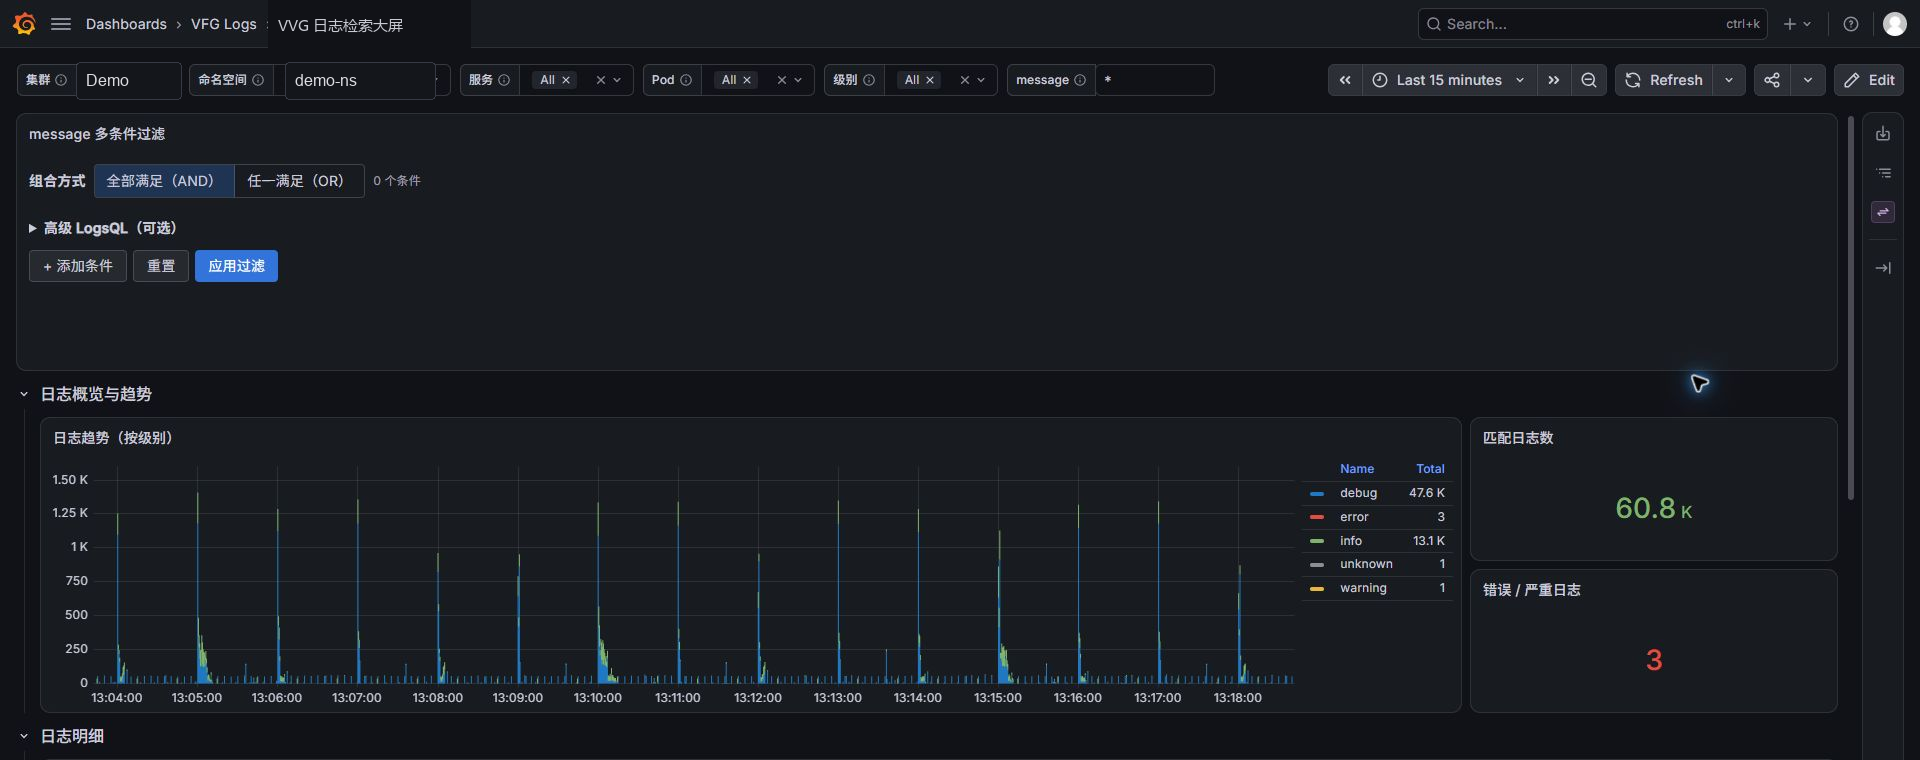
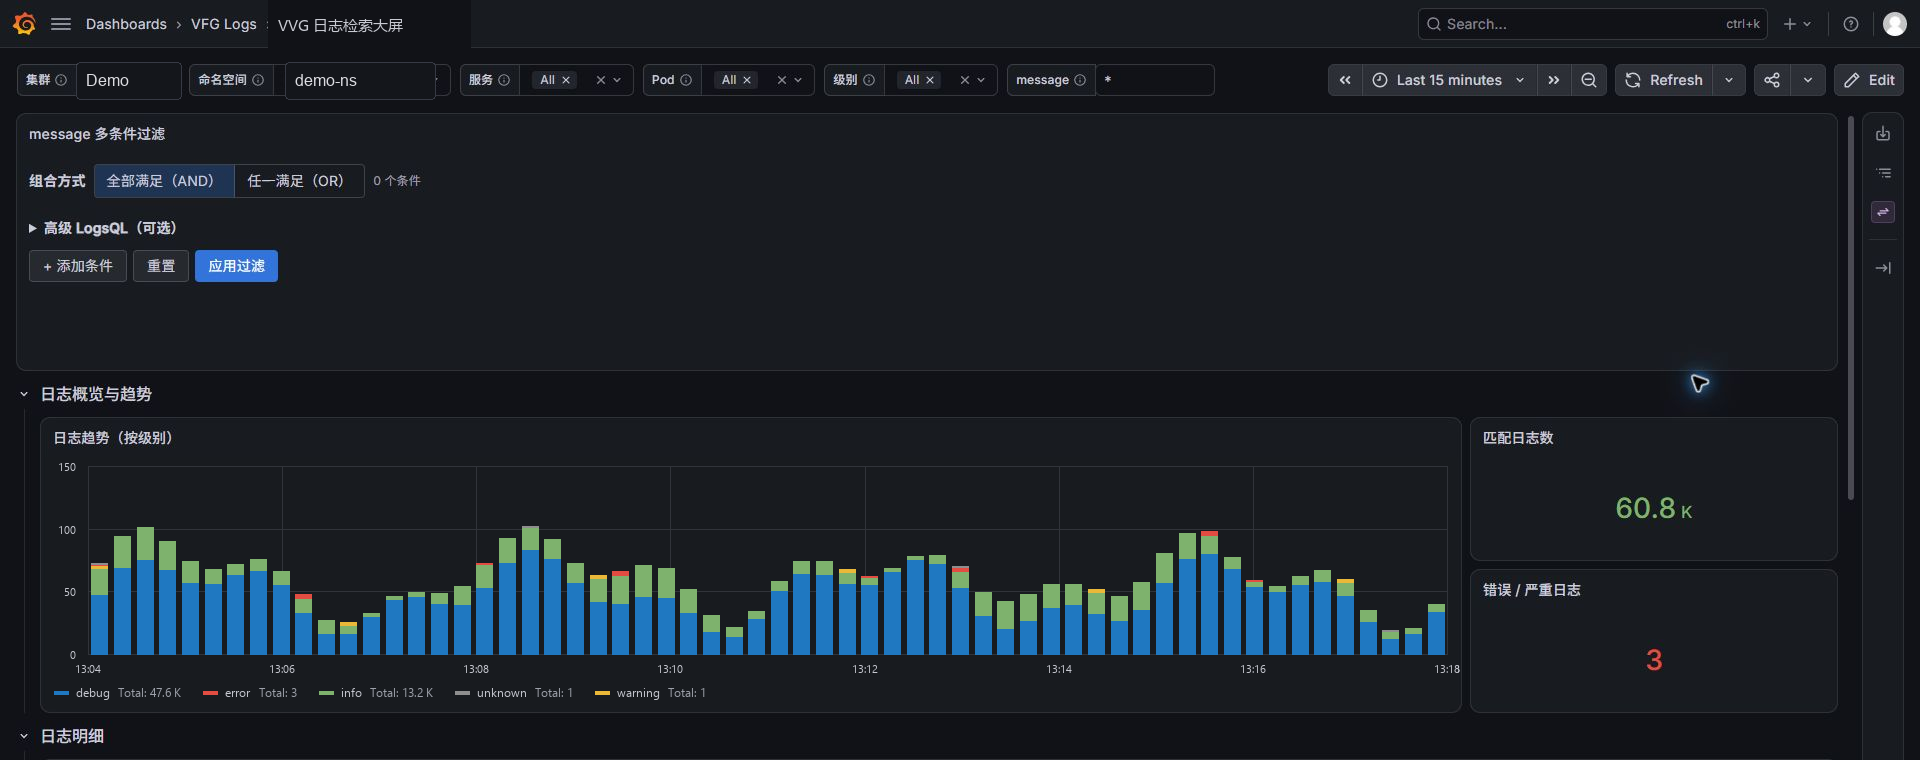
fix: match log trend to Explore volume

Changed region(s): [[0.0312, 0.6053, 0.75, 0.9382], [0.0312, 0.6053, 0.0625, 0.6355]]

diff --git a/docs/ai-agent-operations-guide.md b/docs/ai-agent-operations-guide.md
@@ -180,7 +180,8 @@ docker compose up -d --no-deps --force-recreate grafana
 7. 已知命中词在日志明细中显示黄色高亮。
 8. 5 条条件保持行式布局并在面板内滚动；20 条边界由自动测试和 UI共同约束。
 9. 浏览器控制台无插件预加载或运行错误。
-10. 最终恢复最近 15 分钟、零条件、自动刷新关闭。
+10. 3 小时范围的日志趋势使用 `hits` / `logsVolume`、约 100 个连续时间桶，柱体清晰可见，底部图例总数与统计面板一致。
+11. 最终恢复最近 15 分钟、零条件、自动刷新关闭。
 
 ## 9. 服务端验收
 
@@ -198,6 +199,8 @@ docker compose up -d --no-deps --force-recreate grafana
 - HTTP 200 的插件 `module.js` 仍可能因 React/Grafana 版本不兼容而执行失败；必须看 Chrome 控制台。
 - Grafana API 返回的 Dashboard `version` 是数据库修订计数，不等同于源 JSON 的 `version`。
 - Business Text 的“应用过滤”在标准 `now-N` 到 `now` 滑动窗口中，先原地推进 `context.grafana.timeRange`，再让 `message_filter_expr` 在原表达式和等价括号表达式之间切换，以保证单次变量刷新。不要在这条路径追加 `context.grafana.refresh()`，否则四个日志面板会产生两轮查询。带取整的相对时间使用官方刷新兜底；绝对时间范围保持不变。Grafana 或 Business Text 升级后必须重新做请求数量、时间戳和括号 LogsQL 验收。
+- 趋势图图例有正确总数但绘图区近似空白时，先检查请求模型和时间桶，不要误判为无日志。`statsRange` 配合宽面板可能按数秒返回数百个仅含非零值的稀疏点，柱宽低于一个像素；Dashboard 应复用 Explore 的 `hits` / `logsVolume`、`fields: ["level"]` 和 `maxDataPoints: 100`，得到约 100 个包含零值的连续桶。
+- 主动停止 Grafana 时可能记录一次 `job cleanup controller failed` / `context canceled`。先把该行时间与容器新的 `StartedAt` 比较；若它发生在启动前，且启动后严重错误为零、健康和 datasource 均正常，应归类为关停噪声，不要据此回滚。
 - 远端缺少 Python 不代表 JSON 无法验证；本地解析后比较 SHA 即可。
 - 浏览器中的“转圈”不等于 VictoriaLogs 并发不足；先看请求状态和后端耗时。
 

diff --git a/docs/grafana-victorialogs-query-performance-runbook.md b/docs/grafana-victorialogs-query-performance-runbook.md
@@ -18,6 +18,8 @@ Browser
         -> /select/logsql/hits   日志量直方图
 ```
 
+Dashboard 的日志趋势也应复用这条 `/hits` 路径。VictoriaLogs datasource 查询模型固定为 `queryType: hits`、`supportingQueryType: logsVolume`、`fields: ["level"]`，面板固定 `maxDataPoints: 100`，由 `$__interval` 随时间范围生成约 100 个连续时间桶。
+
 默认时间范围越大、查询越宽泛，两个后端请求扫描的数据越多，浏览器还要渲染更多行和直方图。因此仓库默认值为：
 
 - 新 Explore 页面：最近 15 分钟。
@@ -138,6 +140,16 @@ docker logs --since 2h victorialogs 2>&1 | grep -Ei 'slow query|timeout|panic|er
 3. 默认时间范围、返回行数和 LogsQL 已收窄。
 
 每次只提高一个小档位并复测 P95/P99。并发计数从未触顶时，提高上限只会增加潜在资源争用。
+
+### 3.5 图例有总数但趋势图近似空白
+
+先在浏览器 Query inspector 或网络请求中比较趋势面板与 Explore `Logs volume`：
+
+- 异常形式通常是 `queryType: statsRange`、`step` 只有数秒，并且响应只包含非零的稀疏时间点；总数计算仍正确，但宽时间窗中的单柱可能小于一个屏幕像素。
+- 正常形式是 `queryType: hits`、`supportingQueryType: logsVolume`、`fields: ["level"]` 和 `maxDataPoints: 100`；响应包含约 100 个连续桶，空时段补零，柱形在 15 分钟和 3 小时范围都清晰。
+- 验收时同时比较趋势序列总和、匹配日志数和日志明细命中，三者应使用同一组 namespace、service、Pod、level 和 message 过滤条件。
+
+不要只提高 `fillOpacity` 或固定像素柱宽来掩盖问题。根因在查询分桶时，应先改回 Explore 的日志量数据路径，再调整颜色和图例布局。
 
 ## 4. LogsQL 常见错误
 

diff --git a/AGENTS.md b/AGENTS.md
@@ -19,6 +19,7 @@
 - 外置插件目录必须位于 `/var/lib/grafana` 数据挂载之外；同时设置 `GF_PLUGINS_PREINSTALL_DISABLED=true` 和 `GF_PLUGINS_PREINSTALL_AUTO_UPDATE=false`。
 - 密码、Token、服务器清单、真实内网地址和运行数据不得进入 Git、PR、Release 或截图。
 - Dashboard UID `vvg-log-search`、VictoriaLogs datasource UID `victorialogs-ds`、默认 15 分钟、日志明细 500 行和 Query/Multi 变量 `allValue: "*"` 不得无证据修改。
+- 日志趋势必须复用 Explore `Logs volume` 的 `hits` / `logsVolume` 查询、按 `level` 分组并固定 `maxDataPoints: 100`；禁止退回会产生亚像素稀疏柱的 `statsRange`。
 - 测试和生产使用同一查询逻辑、面板代码、颜色和限制；只允许标题、集群显示名、环境标签和默认 namespace 不同。
 - 只改获批服务。Grafana 变更不得顺带升级 VictoriaLogs、Vector 或业务服务。
 - ClickHouse 网关链路固定 Dashboard UID `vvg-clickhouse-gateway` 和 datasource UID `gateway-clickhouse`；默认最近 15 分钟、自动刷新关闭、明细 500 行。

diff --git a/README.md b/README.md
@@ -55,6 +55,7 @@ Gateway stdout -> Vector 0.58 -> ClickHouse 26.8 LTS -> Grafana
 - **🔍 智能解析**: 自动识别 Nginx 和 Java 日志格式
 - **🔄 可靠传输**: 持久磁盘缓冲、背压和可回滚升级，后端短时维护不主动丢新日志
 - **🧩 多条件检索**: message 包含/不包含、全局 AND/OR、显式 Apply/Reset、URL 状态恢复
+- **📈 清晰趋势**: 复用 Explore Logs volume 的连续时间桶，宽时间范围仍保持可读柱形
 - **⚡ 查询保护**: 默认 15 分钟、All 展开为 `*`、明细 500 行、输入期间零查询
 - **🔒 可审计插件**: 精确版本、SHA-256、不可变 release、只读挂载和原子回滚
 
